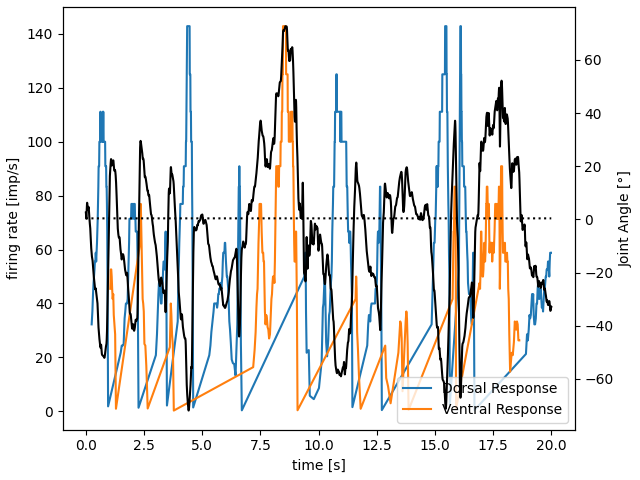
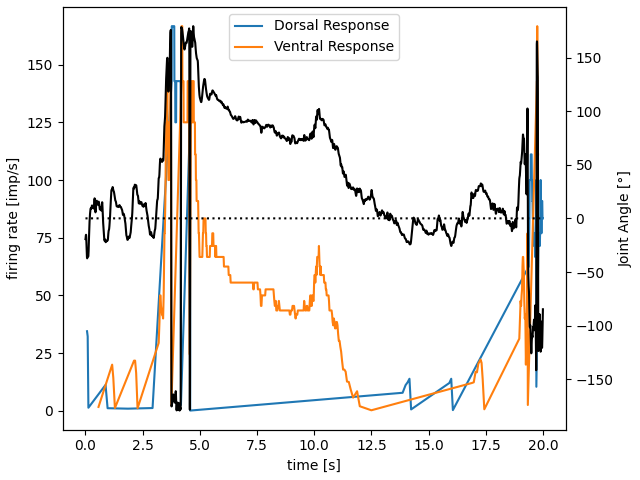
-

diff --git a/Test.py b/Test.py
@@ -6,7 +6,7 @@ import matplotlib.pyplot as plt
 from class_primitive_neuron import LIF_primitive
 from scipy import signal
 
-N_simulations = 1
+N_simulations = 12
 parameters = Parameters(t_total=20, dt=0.001)
 sim = 4
 primitive_list = pickle_open('Data/primitive_list')
@@ -21,29 +21,27 @@ permutations = get_primitive_indexes(6)
 N_legs = 6
 true_positive, false_positive, true_negative, false_negative = [np.empty((N_simulations, 360)) for _ in range(4)]
 
-joint_angles, spike_primitive = joint_angles_list[sim], primitive_list[sim]
-ground_truth, ground_vel, ground_pos = [np.zeros([parameters.general['N_steps'], i]) for i in [360, 36, 36]]
-N_joints = joint_angles.shape[1]
+for k in range(N_simulations):
+    joint_angles, spike_primitive = joint_angles_list[k], primitive_list[k]
+    ground_truth, ground_vel, ground_pos = [np.zeros([parameters.general['N_steps'], i]) for i in [360, 36, 36]]
+    N_joints = joint_angles.shape[1]
+    for i in range(N_joints):
+        mid = np.max(joint_angles[:, i]) / 2 + np.min(joint_angles[:, i]) / 2
+        diff = np.diff(joint_angles[:, i])
+        ground_vel[np.where(diff < 0), 0 + 2 * i] = 1
+        ground_vel[np.where(diff > 0), 1 + 2 * i] = 1
+        ground_pos[np.where(joint_angles[:, i] < mid), 0 + 2 * i] = 1
+        ground_pos[np.where(joint_angles[:, i] > mid), 1 + 2 * i] = 1
 
-for i in range(N_joints):
-    mid = np.max(joint_angles[:, i]) / 2 + np.min(joint_angles[:, i]) / 2
-    diff = np.diff(joint_angles[:, i])
-    ground_vel[np.where(diff < 0), 0 + 2 * i] = 1
-    ground_vel[np.where(diff > 0), 1 + 2 * i] = 1
-    ground_pos[np.where(joint_angles[:, i] < mid), 0 + 2 * i] = 1
-    ground_pos[np.where(joint_angles[:, i] > mid), 1 + 2 * i] = 1
+    for j in range(parameters.general['N_steps']):
+        ground_truth_2 = prepare_spikes_primitive(torch.from_numpy(ground_vel[j, :]), torch.from_numpy(ground_pos[j, :]),
+                                                  permutations, primitive_filter) + primitive_filter_2
+        ground_truth_2 = torch.sum(ground_truth_2, dim=1)
+        ground_truth[j, ground_truth_2 > 2.9] = 1
+        ground_truth[j, ground_truth_2 < 2.9] = 0
 
-for j in range(parameters.general['N_steps']):
-    ground_truth_2 = prepare_spikes_primitive(torch.from_numpy(ground_vel[j, :]), torch.from_numpy(ground_pos[j, :]),
-                                              permutations, primitive_filter) + primitive_filter_2
-    ground_truth_2 = torch.sum(ground_truth_2, dim=1)
-    ground_truth[j, ground_truth_2 > 2.9] = 1
-    ground_truth[j, ground_truth_2 < 2.9] = 0
-
-
-for i in range(N_simulations):
-    pitch = np.array(data[f'simulation_{i}'][2][1, :])
-    spike_primitive = primitive_list[i]
+    pitch = np.array(data[f'simulation_{k}'][2][1, :])
+    spike_primitive = ground_truth
     pitch = pitch[:parameters.general['N_frames']]
     pitch = interpolate(pitch, parameters.general['t_total'], parameters.general['N_steps'])
 
@@ -53,7 +51,7 @@ for i in range(N_simulations):
         correlation = spikes*pitch/(np.sum(spikes)+1)
         #correlation = spikes * pitch
 
-        correlation_pos[j, i] = np.mean(correlation)
+        correlation_pos[j, k] = np.mean(correlation)
 
 
 #weights = np.ndarray.flatten((correlation_pos-correlation_neg)/(correlation_pos+correlation_neg))
@@ -92,7 +90,7 @@ spike_posture, voltage, time = np.empty(parameters.general['N_steps']), np.empty
 
 fig, ax3 = plt.subplots()
 ax4 = ax3.twinx()
-
+spike_primitive = primitive_list[sim]
 for i in tqdm(range(parameters.general['N_steps'])):
     time = np.append(time, i * parameters.general['dt'])
     voltage[i], spike_posture[i] = posture_neuron.forward(torch.from_numpy(spike_primitive[i, :]))

diff --git a/test_2.py b/test_2.py
@@ -1,0 +1,66 @@
+from functions import *
+from dictionaries import Parameters
+from class_primitive_neuron import LIF_primitive
+from scipy.signal import find_peaks
+
+data = pickle_open('Data/simulation_data')
+primitive_list = pickle_open('Data/primitive_list')
+parameters = Parameters(t_total=20, dt=0.001)
+
+N_simulations = 12
+sim = 0
+
+pitch = np.empty((parameters.general['N_steps'], N_simulations))
+for i in range(N_simulations):
+    pitch_single = np.array(data[f'simulation_{i}'][2][1, :])
+    pitch_single = pitch_single[:parameters.general['N_frames']]
+    pitch[:, i] = interpolate(pitch_single, parameters.general['t_total'], parameters.general['N_steps'])
+
+pitch_max, pitch_min = np.max(pitch), np.min(pitch)
+
+
+N_bins = 30
+x = np.linspace(pitch_min, pitch_max, num=N_bins)
+N_spikes = np.zeros(360)
+weights = np.zeros((360, N_bins))
+for j in range(360):
+    bin = np.zeros(N_bins)
+    bin_pitch = np.zeros(N_bins)
+    for i in range(N_simulations):
+        spike_primitive = primitive_list[i]
+        spike_train = spike_primitive[100:, j]
+        incidence = spike_train*pitch[100:, i]
+        incidence[incidence == 0] = np.nan
+        bin += np.histogram(incidence, bins=N_bins, range=(pitch_min, pitch_max))[0]
+        bin_pitch += np.histogram(pitch[:, i], bins=N_bins, range=(pitch_min, pitch_max))[0]
+    plt.scatter(x, bin)
+    plt.show()
+    N_spikes[j] = np.sum(bin)
+
+    weight = bin/bin_pitch
+    weight = weight/np.sum(weight)
+    #weight[weight < 0.05] = 0
+    peaks = find_peaks(weight)
+    print("Peaks position:", peaks[0])
+    weights[j, :] = weight/N_spikes[j]
+
+
+parameters.posture['n'] = N_bins
+parameters.posture['w'] = normalize(weights.T)/80
+posture_neuron = define_and_initialize(LIF_primitive, parameters.posture)
+spike_posture, voltage, time = np.empty((parameters.general['N_steps'], N_bins)), np.empty((parameters.general['N_steps'], N_bins)), np.array([])
+
+spike_primitive = primitive_list[sim]
+for i in tqdm(range(parameters.general['N_steps'])):
+    time = np.append(time, i * parameters.general['dt'])
+    voltage[i, :], spike_posture[i, :] = posture_neuron.forward(torch.from_numpy(spike_primitive[i, :]))
+
+spike_posture[spike_posture == 0] = np.nan
+
+fig, ax = plt.subplots()
+ax2 = ax.twinx()
+ax2.plot(time, pitch[:, sim])
+for i in range(N_bins):
+    ax.plot(time, i*spike_posture[:, i])
+plt.show()
+

diff --git a/run_regression.py b/run_regression.py
@@ -12,9 +12,13 @@ parameters = Parameters(t_total=20, dt=0.001)
 tau = [50e-3, 100e-3, 250e-3, 500e-3, 750e-3, 1000e-3, 1500e-3, 2000e-3, 2500e-3]
 tau = [750e-3]
 
-test, train = [], []
+interneuron_list, test, train = [], [], []
 for t in tqdm(tau):
     primitive_list = pickle_open('Data/primitive_list')
+    position_list = pickle_open('Data/position_list')
+    velocity_list = pickle_open('Data/velocity_list')
+    for k in range(len(position_list)):
+        interneuron_list.append(np.hstack((position_list[k], velocity_list[k])))
     pitch_list = []
     for i in range(N_simulations):
         pitch = np.array(data[f'simulation_{i}'][2][1, :])
@@ -23,8 +27,11 @@ for t in tqdm(tau):
 
     for i in range(N_simulations):
         primitive_list[i] = convert_to_bins(primitive_list[i], parameters.general['N_frames']).astype(float)
+        interneuron_list[i] = convert_to_bins(interneuron_list[i], parameters.general['N_frames']).astype(float)
         for j in range(360):
             primitive_list[i][:, j] = low_pass_filter(primitive_list[i][:, j], 1/200, tau=t)
+        for j in range(position_list[0].shape[1]):
+            interneuron_list[i][:, j] = low_pass_filter(interneuron_list[i][:, j], 1/200, tau=t)
 
     model = SGD(alpha=0.000, max_iter=10000, verbose=100)
 
@@ -42,13 +49,14 @@ for t in tqdm(tau):
     model.fit(x_train, y_train)
     score_train = model.score(x_train, y_train)
     score_test = model.score(x_test, y_test)
-    print(len(model.coef_))
+
     train.append(score_train)
     test.append(score_test)
 
     print(score_train, score_test)
 
-    y_predicted = model.predict(x_test)
+    y_predicted_train = model.predict(x_train)
+    y_predicted_test = model.predict(x_test)
 
 #weights = model.coef_
 #pickle_save(weights, 'Data/weights_pitch')
@@ -57,6 +65,10 @@ plt.scatter(tau, train)
 plt.scatter(tau, test)
 plt.show()
 
-plt.plot(range(y_predicted.size), gaussian_filter(y_predicted))
-plt.plot(range(y_predicted.size), y_test)
+plt.plot(range(y_predicted_train.size), gaussian_filter(y_predicted_train))
+plt.plot(range(y_predicted_train.size), y_train)
+plt.show()
+
+plt.plot(range(y_predicted_test.size), gaussian_filter(y_predicted_test))
+plt.plot(range(y_predicted_test.size), y_test)
 plt.show()

diff --git a/run_full_network.py b/run_full_network.py
@@ -14,7 +14,7 @@ _, synapse_type, weights_primitive, primitive_filter_2, primitive_filter = get_e
 permutations = get_primitive_indexes(6)
 data = pickle_open('Data/simulation_data')
 
-joint_angles_list, primitive_list = [], []
+joint_angles_list, primitive_list, position_list, velocity_list = [], [], [], []
 
 for k in tqdm(range(N_simulations), desc='Network progress'):
     joint_angles = np.array(data[f'simulation_{k}'][0]).T
@@ -61,10 +61,12 @@ for k in tqdm(range(N_simulations), desc='Network progress'):
 
         _, spike_primitive[i, :] = primitive_neuron.forward(pos_vel_spikes)
 
-    primitive_list.append(spike_primitive.numpy()), joint_angles_list.append(joint_angles)
+    primitive_list.append(spike_primitive.numpy()), joint_angles_list.append(joint_angles), position_list.append(spike_position.numpy()), velocity_list.append(spike_velocity.numpy())
 
 pickle_save(primitive_list, 'Data/primitive_list')
 pickle_save(joint_angles_list, 'Data/joint_angles_list')
+pickle_save(position_list, 'Data/position_list')
+pickle_save(velocity_list, 'Data/velocity_list')
 
 
 '''
